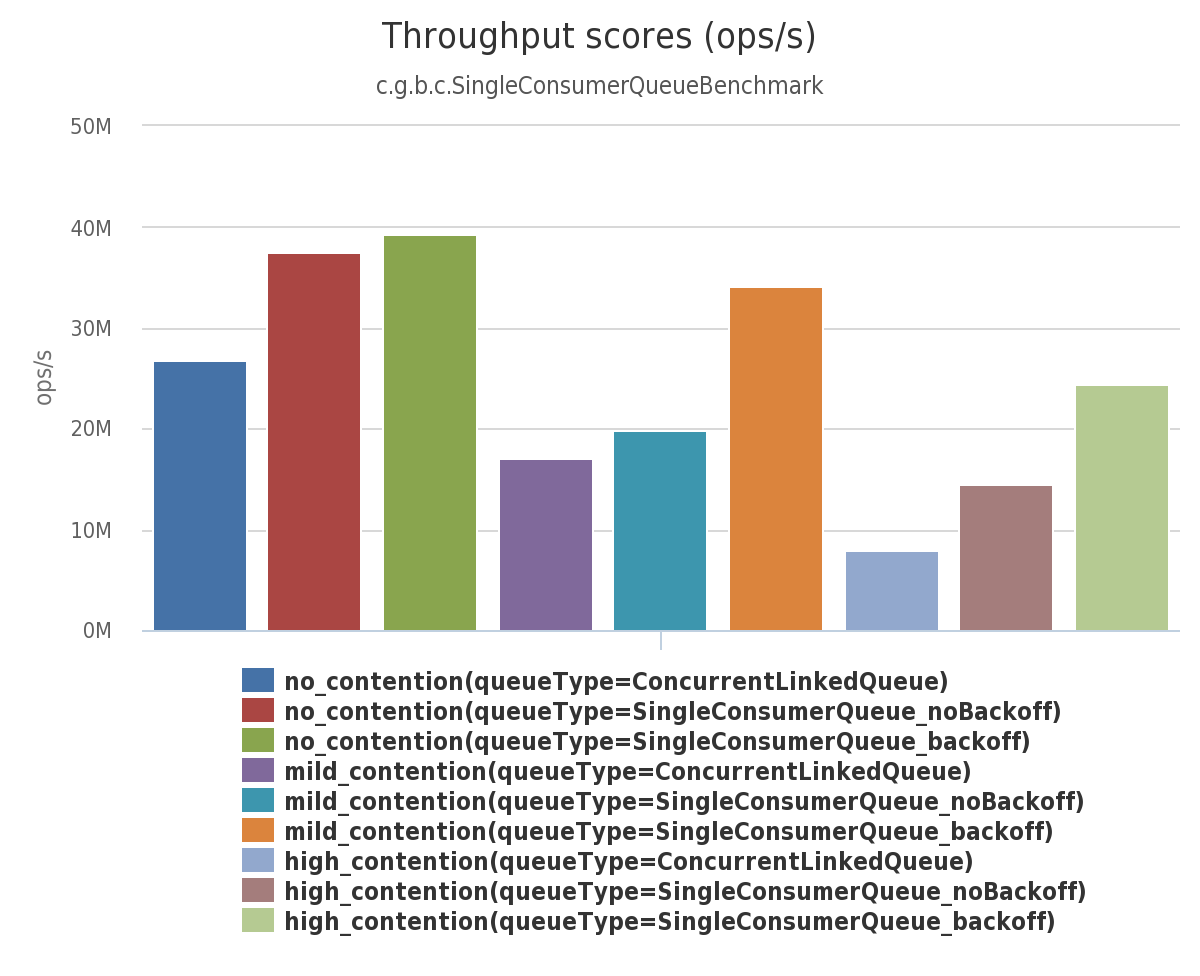
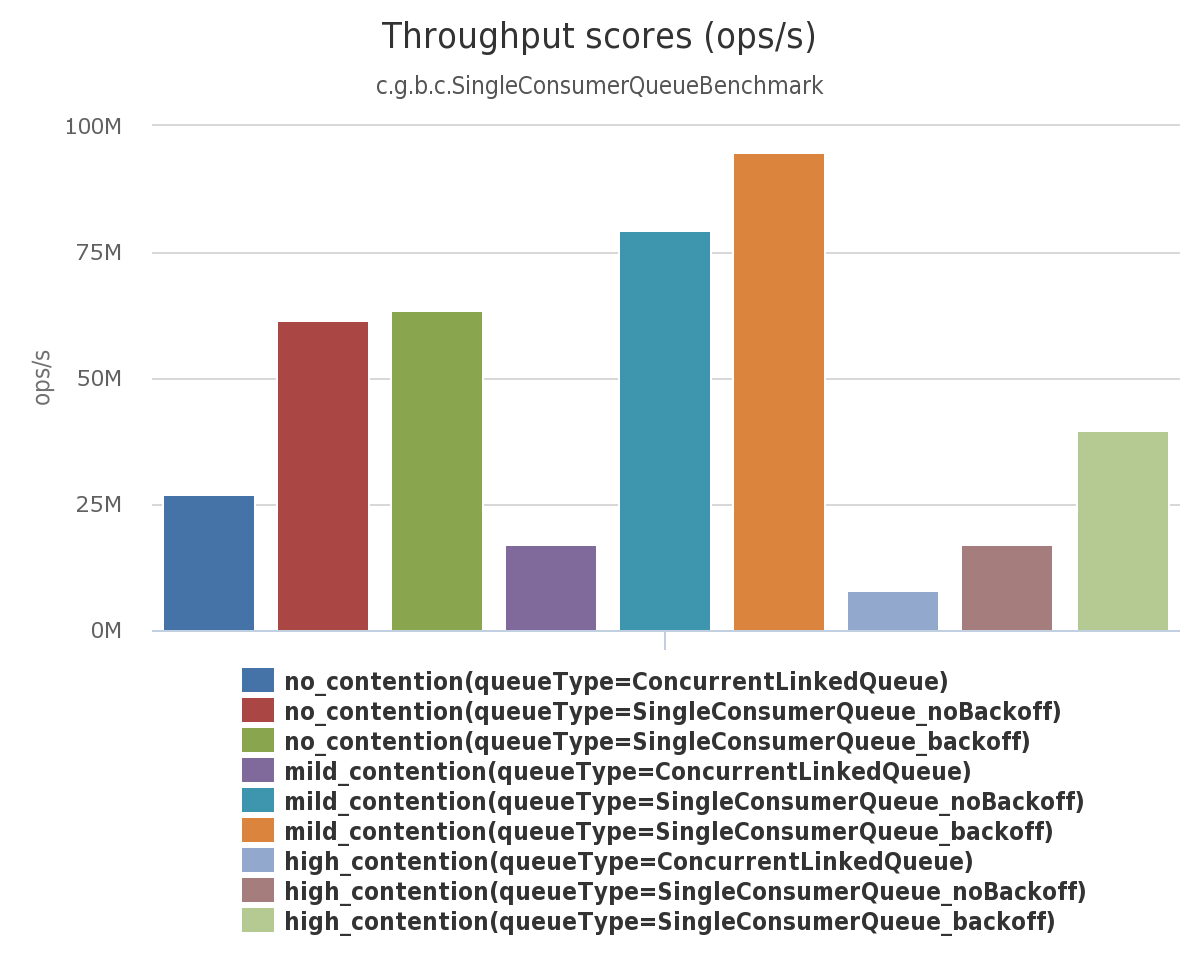
Add head/tail padding to SingleConsumerQueue

diff --git a/caffeine/src/main/java/com/github/benmanes/caffeine/SingleConsumerQueue.java b/caffeine/src/main/java/com/github/benmanes/caffeine/SingleConsumerQueue.java
@@ -35,6 +35,7 @@ import java.util.stream.Collectors;
 import javax.annotation.Nonnull;
 import javax.annotation.Nullable;
 
+import com.github.benmanes.caffeine.SingleConsumerQueue.Node;
 import com.github.benmanes.caffeine.base.UnsafeAccess;
 
 /**
@@ -75,7 +76,8 @@ import com.github.benmanes.caffeine.base.UnsafeAccess;
  * @param <E> the type of elements held in this collection
  */
 @Beta
-public final class SingleConsumerQueue<E> implements Queue<E>, Serializable {
+public final class SingleConsumerQueue<E> extends HeadAndTailRef<E>
+    implements Queue<E>, Serializable {
 
   /*
    * The queue is represented as a singly-linked list with an atomic head and tail reference. It is
@@ -126,12 +128,6 @@ public final class SingleConsumerQueue<E> implements Queue<E>, Serializable {
   /** The offset to the thread-specific probe field. */
   static final long PROBE = UnsafeAccess.objectFieldOffset(Thread.class, "threadLocalRandomProbe");
 
-  static final long HEAD_OFFSET =
-      UnsafeAccess.objectFieldOffset(SingleConsumerQueue.class, "head");
-
-  static final long TAIL_OFFSET =
-      UnsafeAccess.objectFieldOffset(SingleConsumerQueue.class, "tail");
-
   static int ceilingNextPowerOfTwo(int x) {
     // From Hacker's Delight, Chapter 3, Harry S. Warren Jr.
     return 1 << (Integer.SIZE - Integer.numberOfLeadingZeros(x - 1));
@@ -147,10 +143,8 @@ public final class SingleConsumerQueue<E> implements Queue<E>, Serializable {
     return (probe & ARENA_MASK);
   }
 
-  volatile Node<E> head;
   final AtomicReference<Node<E>>[] arena;
   final Function<E, Node<E>> factory;
-  volatile Node<E> tail;
 
   @SuppressWarnings({"unchecked", "rawtypes"})
   private SingleConsumerQueue(Function<E, Node<E>> factory) {
@@ -188,23 +182,6 @@ public final class SingleConsumerQueue<E> implements Queue<E>, Serializable {
    */
   public static <E> SingleConsumerQueue<E> linearizable() {
     return new SingleConsumerQueue<>(LinearizableNode<E>::new);
-  }
-
-  @SuppressWarnings("unchecked")
-  Node<E> getHeadRelaxed() {
-    return (Node<E>) UnsafeAccess.UNSAFE.getObject(this, HEAD_OFFSET);
-  }
-
-  void lazySetHead(Node<E> next) {
-    UnsafeAccess.UNSAFE.putOrderedObject(this, HEAD_OFFSET, next);
-  }
-
-  void lazySetTail(Node<E> next) {
-    UnsafeAccess.UNSAFE.putOrderedObject(this, TAIL_OFFSET, next);
-  }
-
-  boolean casTail(Node<E> expect, Node<E> update) {
-    return UnsafeAccess.UNSAFE.compareAndSwapObject(this, TAIL_OFFSET, expect, update);
   }
 
   @Override
@@ -581,6 +558,11 @@ public final class SingleConsumerQueue<E> implements Queue<E>, Serializable {
     /** A no-op wait until the operation has completed. */
     void await() {}
 
+    /** Always returns that the operation completed. */
+    boolean isDone() {
+      return true;
+    }
+
     @Override
     public String toString() {
       return getClass().getSimpleName() + "[" + value + "]";
@@ -605,5 +587,52 @@ public final class SingleConsumerQueue<E> implements Queue<E>, Serializable {
     void await() {
       while (!done) {};
     }
+
+    /** Returns whether the operation completed. */
+    @Override
+    boolean isDone() {
+      return done;
+    }
+  }
+}
+
+abstract class PadHead {
+  long p00, p01, p02, p03, p04, p05, p06, p07;
+  long p30, p31, p32, p33, p34, p35, p36, p37;
+}
+
+/** Enforces a memory layout that to avoid false sharing by padding the head node. */
+abstract class HeadRef<E> extends PadHead {
+  static final long HEAD_OFFSET = UnsafeAccess.objectFieldOffset(HeadRef.class, "head");
+
+  volatile Node<E> head;
+
+  @SuppressWarnings("unchecked")
+  Node<E> getHeadRelaxed() {
+    return (Node<E>) UnsafeAccess.UNSAFE.getObject(this, HEAD_OFFSET);
+  }
+
+  void lazySetHead(Node<E> next) {
+    UnsafeAccess.UNSAFE.putOrderedObject(this, HEAD_OFFSET, next);
+  }
+}
+
+abstract class PadTail<E> extends HeadRef<E> {
+  long p00, p01, p02, p03, p04, p05, p06, p07;
+  long p30, p31, p32, p33, p34, p35, p36, p37;
+}
+
+/** Enforces a memory layout that to avoid false sharing by padding the tail node. */
+abstract class HeadAndTailRef<E> extends PadTail<E> {
+  static final long TAIL_OFFSET = UnsafeAccess.objectFieldOffset(HeadAndTailRef.class, "tail");
+
+  volatile Node<E> tail;
+
+  void lazySetTail(Node<E> next) {
+    UnsafeAccess.UNSAFE.putOrderedObject(this, TAIL_OFFSET, next);
+  }
+
+  boolean casTail(Node<E> expect, Node<E> update) {
+    return UnsafeAccess.UNSAFE.compareAndSwapObject(this, TAIL_OFFSET, expect, update);
   }
 }

diff --git a/caffeine/src/jmh/java/com/github/benmanes/caffeine/profiler/SingleConsumerQueueProfiler.java b/caffeine/src/jmh/java/com/github/benmanes/caffeine/profiler/SingleConsumerQueueProfiler.java
@@ -1,0 +1,53 @@
+/*
+ * Copyright 2015 Ben Manes. All Rights Reserved.
+ *
+ * Licensed under the Apache License, Version 2.0 (the "License");
+ * you may not use this file except in compliance with the License.
+ * You may obtain a copy of the License at
+ *
+ *     http://www.apache.org/licenses/LICENSE-2.0
+ *
+ * Unless required by applicable law or agreed to in writing, software
+ * distributed under the License is distributed on an "AS IS" BASIS,
+ * WITHOUT WARRANTIES OR CONDITIONS OF ANY KIND, either express or implied.
+ * See the License for the specific language governing permissions and
+ * limitations under the License.
+ */
+package com.github.benmanes.caffeine.profiler;
+
+import java.util.Queue;
+import java.util.concurrent.atomic.AtomicBoolean;
+
+import com.github.benmanes.caffeine.QueueType;
+
+/**
+ * @author Ben Manes (***REDACTED-EMAIL***)
+ */
+public final class SingleConsumerQueueProfiler extends ProfilerHook {
+  final QueueType queueType = QueueType.SingleConsumerQueue_optimistic;
+  final AtomicBoolean consumer = new AtomicBoolean();
+  final Queue<Boolean> queue = queueType.create();
+
+  SingleConsumerQueueProfiler() {
+    ProfilerHook.NUM_THREADS = 8;
+  }
+
+  @Override
+  protected void profile() {
+    if (consumer.compareAndSet(false, true)) {
+      for (;;) {
+        queue.poll();
+      }
+    } else {
+      for (;;) {
+        queue.offer(Boolean.TRUE);
+        calls.increment();
+      }
+    }
+  }
+
+  public static void main(String[] args) {
+    ProfilerHook profile = new SingleConsumerQueueProfiler();
+    profile.run();
+  }
+}

diff --git a/caffeine/src/jmh/java/com/github/benmanes/caffeine/profiler/CacheProfiler.java b/caffeine/src/jmh/java/com/github/benmanes/caffeine/profiler/CacheProfiler.java
@@ -28,7 +28,6 @@ import com.github.benmanes.caffeine.cache.tracing.Tracer;
  * @author Ben Manes (***REDACTED-EMAIL***)
  */
 public final class CacheProfiler extends ProfilerHook {
-  static final int NUM_THREADS = 25;
   static final int MAX_SIZE = 2 * NUM_THREADS;
   static final CacheType type = CacheType.Caffeine;
 

diff --git a/caffeine/src/jmh/java/com/github/benmanes/caffeine/profiler/ProfilerHook.java b/caffeine/src/jmh/java/com/github/benmanes/caffeine/profiler/ProfilerHook.java
@@ -27,7 +27,6 @@ import com.google.common.base.Stopwatch;
  *
  * @author Ben Manes (***REDACTED-EMAIL***)
  */
-
 public abstract class ProfilerHook {
   protected static int NUM_THREADS = 25;
   protected static int DISPLAY_DELAY_SEC = 5;

diff --git a/caffeine/src/test/java/com/github/benmanes/caffeine/IsValidSingleConsumerQueue.java b/caffeine/src/test/java/com/github/benmanes/caffeine/IsValidSingleConsumerQueue.java
@@ -70,6 +70,7 @@ public final class IsValidSingleConsumerQueue<E>
       Supplier<String> errorMsg = () -> String.format("Loop detected: %s in %s", current, seen);
       builder.expectThat(errorMsg, seen.add(node), is(true));
       builder.expectThat("not tail", node, is(not(queue.head)));
+      builder.expectThat("not completed", node.isDone(), is(true));
       builder.expectThat("not null value", node.value, is(not(nullValue())));
       node = node.next;
     }